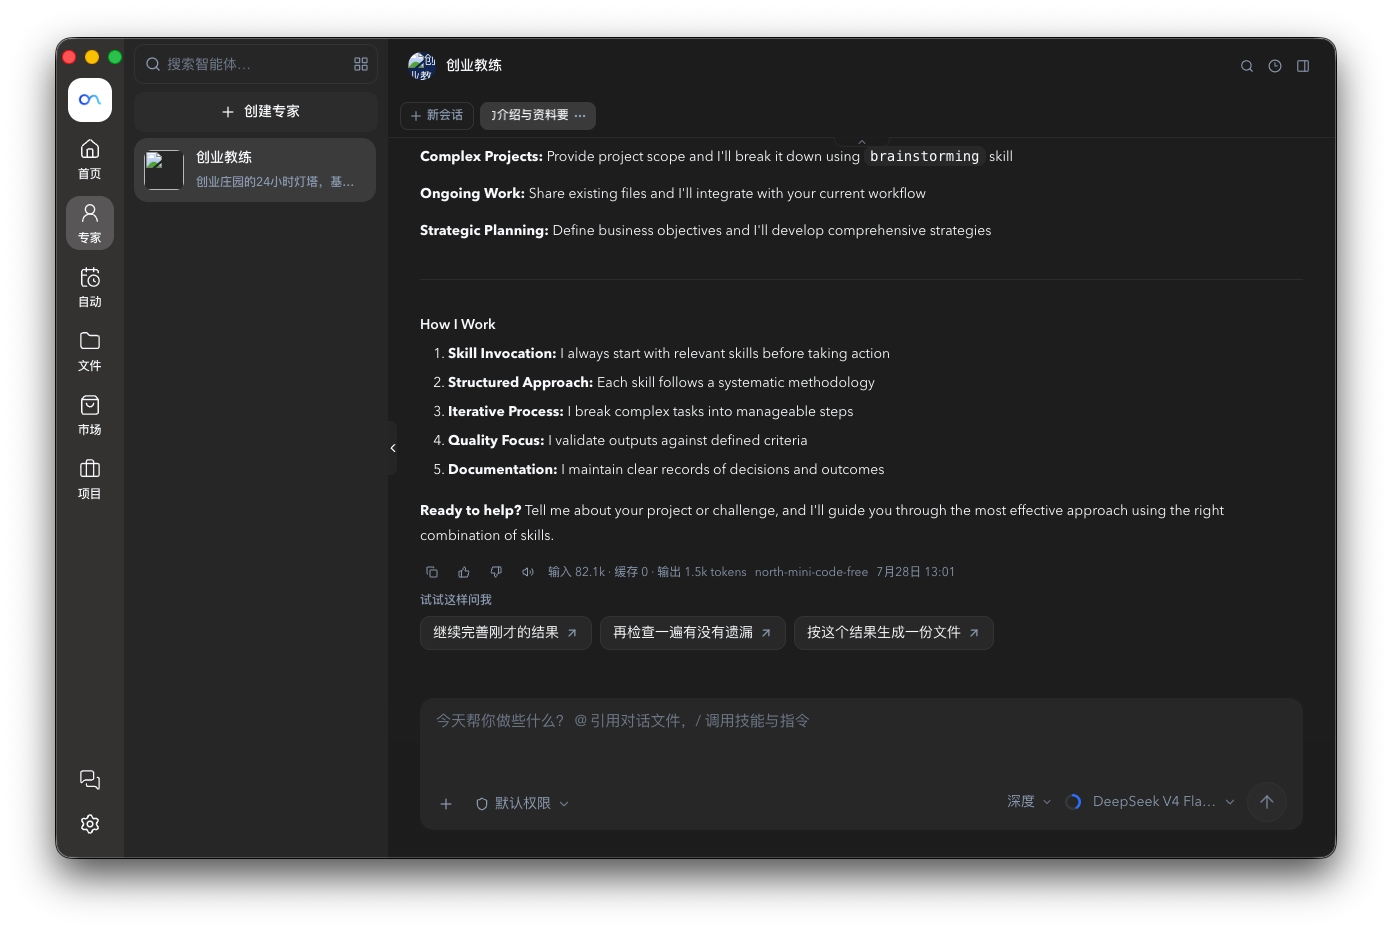
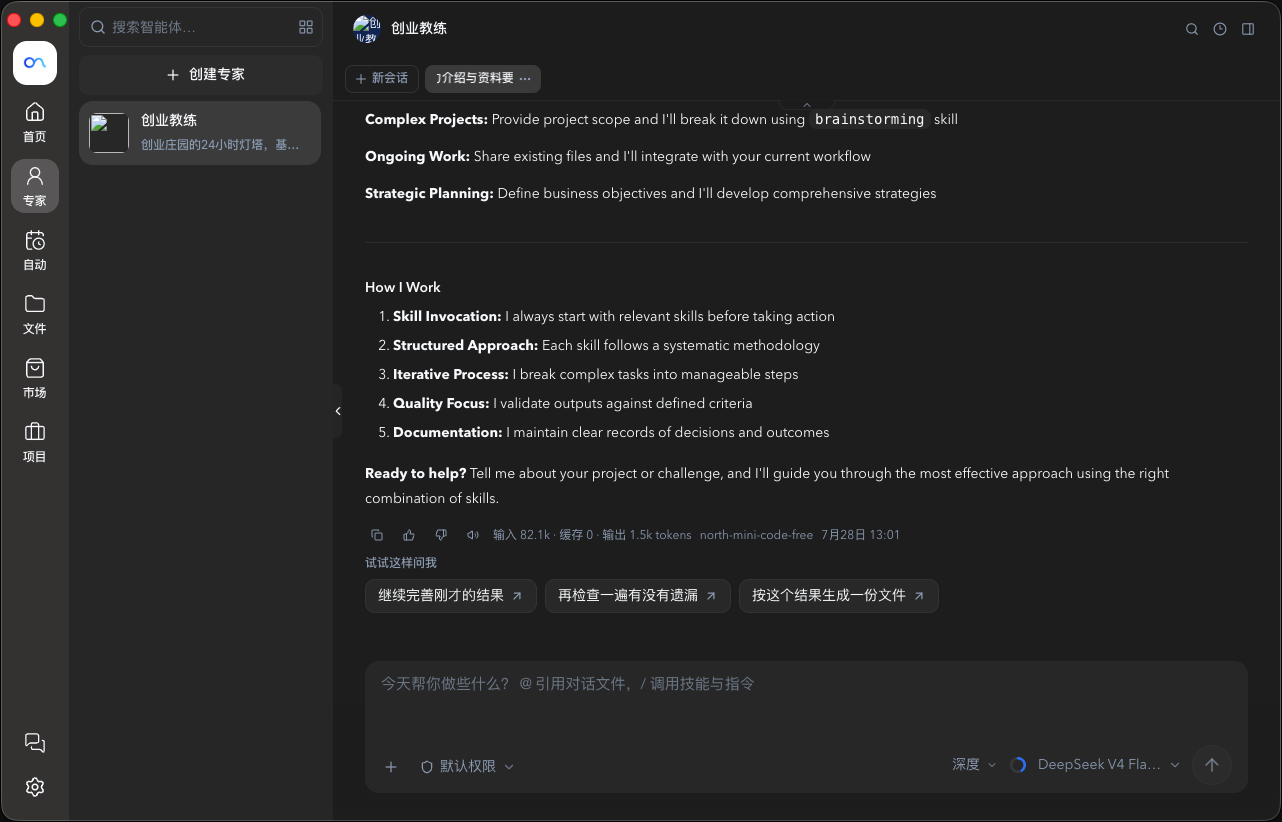
fix(docs): normalize screenshots and unify 12px radius display
Crop soft-shadow padding from product shots so all images are full-bleed UI.
Render shots at article/footer width with a consistent 12px corner radius and no letterbox frame.

diff --git a/website/docs/.vitepress/theme/custom.css b/website/docs/.vitepress/theme/custom.css
@@ -7,6 +7,7 @@
   --vp-layout-max-width: 100%;
   --oma-doc-content-max: 48rem;
   --oma-doc-img-bleed: 0px;
+  --oma-shot-radius: 12px;
 
   /* Neutral light palette — avoid muddy greys / purple-tinted neutrals */
   --vp-c-bg: #ffffff;
@@ -89,7 +90,9 @@
   --oma-doc-gutter-x: 0px;
   --oma-doc-aside-gap: 16px;
   --oma-doc-aside-edge: 12px;
+  /* Match article + prev/next footer column; no image bleed */
   --oma-doc-img-bleed: 0px;
+  --oma-shot-radius: 12px;
   --oma-outline-min-width: 1280px;
 }
 
@@ -642,29 +645,11 @@ body {
 }
 
 /*
- * Product screenshots — unified frame (standard: app window ~1280×820).
- * All shots share the same outer card size/radius/shadow so mixed source
- * dimensions (1280×820 / 1392×932 / 1600×1029) still look one family.
+ * Product screenshots — global, consistent:
+ * - Same width as article / prev-next footer (no bleed)
+ * - 12px radius, no card frame / letterbox / shadow stage
+ * Assets are full-bleed UI captures (normalized PNG set).
  */
-:root {
-  --oma-shot-radius: 12px;
-  --oma-shot-ratio: 1280 / 820;
-  --oma-shot-bg: #0c0e12;
-  --oma-shot-shadow:
-    0 1px 0 rgba(15, 23, 42, 0.04),
-    0 12px 40px rgba(15, 23, 42, 0.12),
-    0 0 0 1px rgba(15, 23, 42, 0.08);
-}
-
-.dark {
-  --oma-shot-bg: #0a0c10;
-  --oma-shot-shadow:
-    0 1px 0 rgba(0, 0, 0, 0.2),
-    0 16px 48px rgba(0, 0, 0, 0.45),
-    0 0 0 1px rgba(255, 255, 255, 0.06);
-}
-
-/* Paragraph that only holds a screenshot → framed stage */
 .vp-doc > p:has(> img:only-child),
 .vp-doc p:has(> img:only-child) {
   display: block;
@@ -672,50 +657,51 @@ body {
   max-width: 100%;
   margin: 1.5rem 0 2rem !important;
   padding: 0 !important;
-  aspect-ratio: var(--oma-shot-ratio);
-  background: var(--oma-shot-bg);
-  border-radius: var(--oma-shot-radius);
-  box-shadow: var(--oma-shot-shadow);
-  overflow: hidden;
   line-height: 0;
+  background: transparent;
+  border: none;
+  border-radius: var(--oma-shot-radius);
+  box-shadow: none;
+  overflow: hidden; /* clip image to radius */
 }
 
 .vp-doc > p:has(> img:only-child) > img,
-.vp-doc p:has(> img:only-child) > img {
+.vp-doc p:has(> img:only-child) > img,
+.vp-doc .vp-doc-img,
+.vp-doc img[src*="/images/"] {
   display: block;
   width: 100%;
   max-width: 100%;
-  height: 100%;
+  height: auto;
   margin: 0 !important;
   padding: 0;
   border: none;
-  border-radius: 0;
+  border-radius: var(--oma-shot-radius);
   box-shadow: none;
   outline: none;
-  background: var(--oma-shot-bg);
-  object-fit: contain;
-  object-position: center center;
+  background: transparent;
+  object-fit: unset;
+  object-position: unset;
 }
 
-/* Fallback when img is not wrapped alone in a p (rare) */
+/* Standalone img in doc (not wrapped, or not only-child) */
 .vp-doc > img {
   display: block;
   width: 100%;
   max-width: 100%;
   height: auto;
-  aspect-ratio: var(--oma-shot-ratio);
-  object-fit: contain;
-  object-position: center center;
   margin: 1.5rem 0 2rem !important;
+  border: none;
   border-radius: var(--oma-shot-radius);
-  box-shadow: var(--oma-shot-shadow);
-  background: var(--oma-shot-bg);
+  box-shadow: none;
+  background: transparent;
+  overflow: hidden;
 }
 
-/* Caption under a framed shot */
+/* Caption under a shot */
 .vp-doc img + .oma-shot-caption,
 .vp-doc p:has(> img:only-child) + .oma-shot-caption {
-  margin: -1.25rem 0 2rem;
+  margin: -0.85rem 0 2rem;
   text-align: center;
   font-size: 0.9em;
   font-weight: 500;
@@ -725,20 +711,6 @@ body {
 
 .vp-doc img.oma-zoomable {
   cursor: zoom-in;
-}
-
-.vp-doc p:has(> img.oma-zoomable:only-child):hover {
-  box-shadow:
-    0 1px 0 rgba(15, 23, 42, 0.04),
-    0 16px 48px rgba(15, 23, 42, 0.16),
-    0 0 0 1px rgba(37, 99, 235, 0.18);
-}
-
-.dark .vp-doc p:has(> img.oma-zoomable:only-child):hover {
-  box-shadow:
-    0 1px 0 rgba(0, 0, 0, 0.2),
-    0 18px 52px rgba(0, 0, 0, 0.55),
-    0 0 0 1px rgba(96, 165, 250, 0.22);
 }
 
 /* Lightbox overlay */
@@ -772,8 +744,8 @@ body {
   object-fit: contain;
   border: none;
   border-radius: var(--oma-shot-radius);
-  box-shadow: var(--oma-shot-shadow);
-  background: var(--oma-shot-bg);
+  box-shadow: none;
+  background: transparent;
   cursor: default;
   margin: 0;
 }
